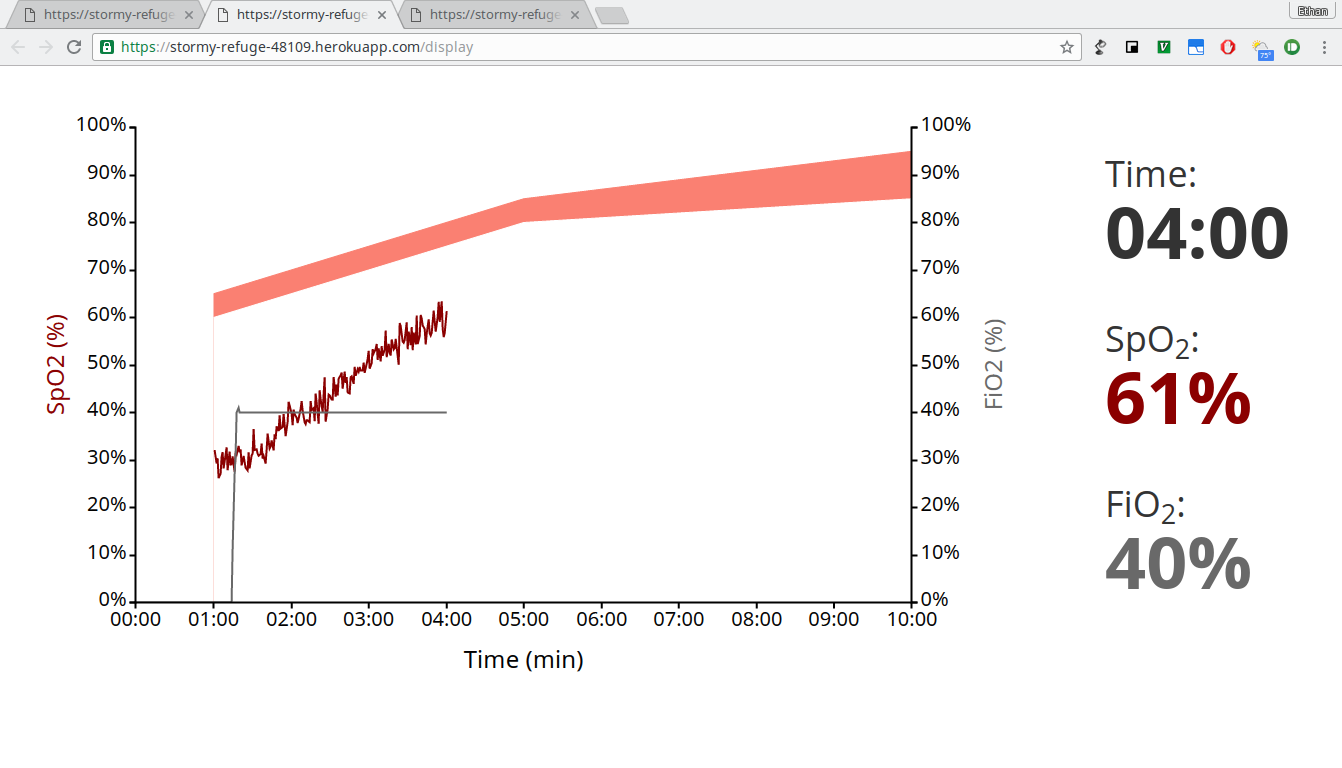
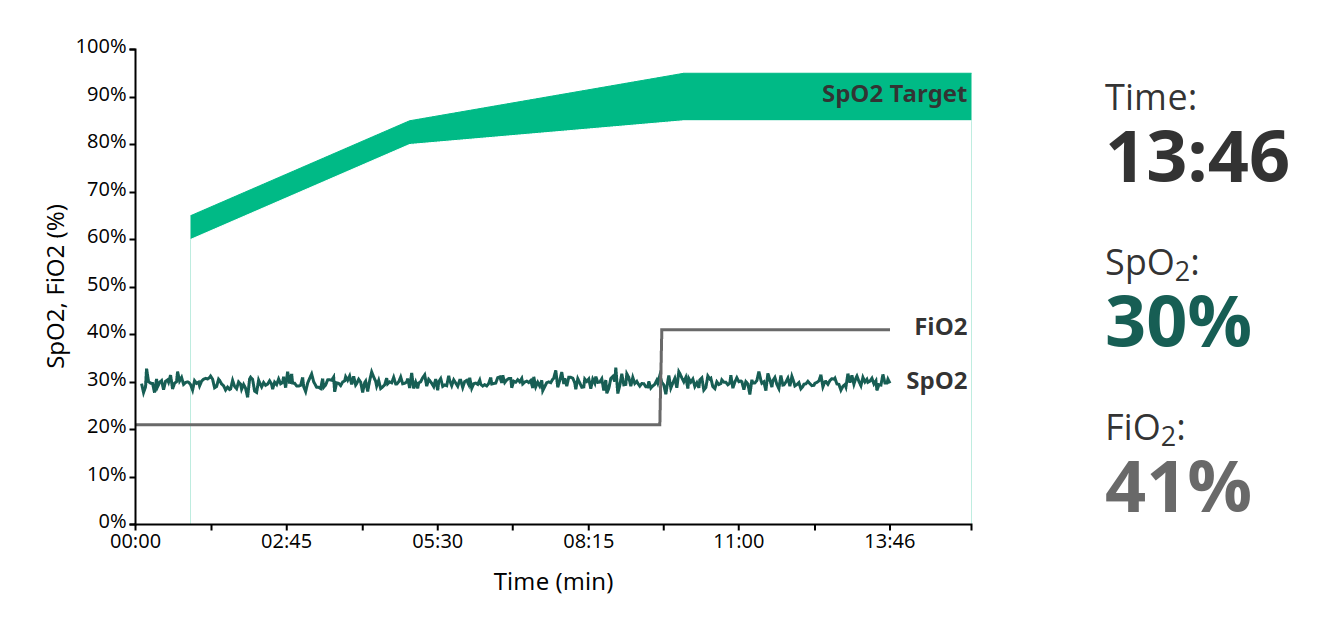
Added line annotations/labels
Hacked together using C3 grids...
Adapted an old C3js commit for y axis padding for x axis padding (refer
to https://github.com/c3js/c3/issues/251)

diff --git a/public/display-panel.html b/public/display-panel.html
@@ -106,7 +106,7 @@ var chart = c3.generate({
         },
         colors: {
             targetLower: 'white',
-            targetUpper: '#009B76',
+            targetUpper: '#00BA86',
             SpO2: '#175E54',
             FiO2: 'dimgray'
         }
@@ -127,7 +127,11 @@ var chart = c3.generate({
             },
             min: toDateString(0),
             max: toDateString(600),
-            padding: 0,
+            padding: {
+                left: 0,
+                right: 0.09,
+                unit: 'ratio'
+            },
             height: 60
         },
         y: {
@@ -180,6 +184,7 @@ function updateDisplay(time, spO2, fiO2) {
     if (time > 600) {
         chart.axis.tickFit(true);
         chart.axis.tickCount(11);
+        $("#chart .c3-ygrid-line").addClass('c3-ygrid-line-hidden');
     }
     if (spO2 === null) {
         spO2 = NaN;
@@ -198,6 +203,17 @@ function updateDisplay(time, spO2, fiO2) {
         done: function() {
             if (time > 600) {
                 chart.axis.max({x: toDateString(Math.ceil(time / 60) * 60)});
+            }
+            if (!isNaN(spO2) && !isNaN(fiO2)) {
+                var annotationDeltaY = 0;
+                if (time > 600) {
+                    annotationDeltaY = -0.02;
+                }
+                chart.ygrids([
+                    {value: 0.87 - annotationDeltaY / 2, text: 'SpO2 Target', class: 'spO2-target-label'},
+                    {value: spO2 + annotationDeltaY, text: 'SpO2', class: 'spO2-label'},
+                    {value: fiO2 + annotationDeltaY, text: 'FiO2', class: 'fiO2-label'}
+                ]);
             }
         }
     });
@@ -235,15 +251,25 @@ socket.on('initialize', function(data) {
     spO2Signal.unshift('SpO2');
     var fiO2Signal = data.fiO2;
     fiO2Signal.unshift('FiO2');
+    var annotationDeltaY = 0;
     if (data.time[data.time.length - 1] > 600) {
         chart.axis.max({x: time[time.length - 1]});
         chart.axis.tickFit(true);
         chart.axis.tickCount(11);
+        $("#chart .c3-ygrid-line.spO2-label").addClass('c3-ygrid-line-hidden');
+        $("#chart .c3-ygrid-line.fiO2-label").addClass('c3-ygrid-line-hidden');
+        annotationDeltaY = -0.02;
     } else {
         chart.axis.max({x: toDateString(600)});
         chart.axis.tickFit(false);
         chart.axis.tickCount(11);
     }
+    chart.ygrids([
+        {value: 0.87 - annotationDeltaY / 2, text: 'SpO2 Target', class: 'spO2-target-label'},
+        {value: data.spO2[data.spO2.length - 1] + annotationDeltaY, text: 'SpO2', class: 'spO2-label'},
+        {value: data.fiO2[data.fiO2.length - 1] + annotationDeltaY, text: 'FiO2', class: 'fiO2-label'}
+    ]);
+    $("#chart .c3-ygrid-line.spO2-target-label").addClass('c3-ygrid-line-hidden');
     chart.load({
         columns: [
             time,
@@ -273,6 +299,9 @@ socket.on('reset', function(data) {
                     chart.axis.tickFit(false);
                     chart.axis.tickCount(11);
                     setCurrentDisplay(data.time, data.spO2, data.fiO2);
+                    chart.ygrids([
+                        {value: 0.87, text: 'SpO2 Target', class: 'spO2-target-label'},
+                    ]);
                 }
             });
         }

diff --git a/public/javascripts/c3.js b/public/javascripts/c3.js
@@ -1563,6 +1563,10 @@
         domain = [yDomainMin - padding_bottom, yDomainMax + padding_top];
         return isInverted ? domain.reverse() : domain;
     };
+    c3_chart_internal_fn.getAxisPadding = function (padding, key, defaultValue, all) {
+        var ratio = padding.unit === 'ratio' ? all : 1;
+        return isValue(padding[key]) ? padding[key] * ratio : defaultValue;
+    };
     c3_chart_internal_fn.getXDomainMin = function (targets) {
         var $$ = this, config = $$.config;
         return isDefined(config.axis_x_min) ?
@@ -1588,8 +1592,8 @@
             padding = diff * 0.01;
         }
         if (typeof config.axis_x_padding === 'object' && notEmpty(config.axis_x_padding)) {
-            paddingLeft = isValue(config.axis_x_padding.left) ? config.axis_x_padding.left : padding;
-            paddingRight = isValue(config.axis_x_padding.right) ? config.axis_x_padding.right : padding;
+            paddingLeft = c3_chart_internal_fn.getAxisPadding(config.axis_x_padding, 'left', padding, diff);
+            paddingRight = c3_chart_internal_fn.getAxisPadding(config.axis_x_padding, 'right', padding, diff);
         } else if (typeof config.axis_x_padding === 'number') {
             paddingLeft = paddingRight = config.axis_x_padding;
         } else {

diff --git a/public/stylesheets/display_panel.css b/public/stylesheets/display_panel.css
@@ -31,6 +31,21 @@
 #chart .c3-line-FiO2 {
     stroke-width: 3px;
 }
+.c3-ygrid-line-hidden {
+    stroke-width: 0px;
+}
+#chart .spO2-target-label {
+    font: bold 24px sans-serif;
+}
+#chart .spO2-label {
+    font: bold 24px sans-serif;
+}
+#chart .fiO2-label {
+    font: bold 24px sans-serif;
+}
+#chart .c3-grid text {
+    fill: #333;
+}
 
 .current-display {
     font: 72px sans-serif;
